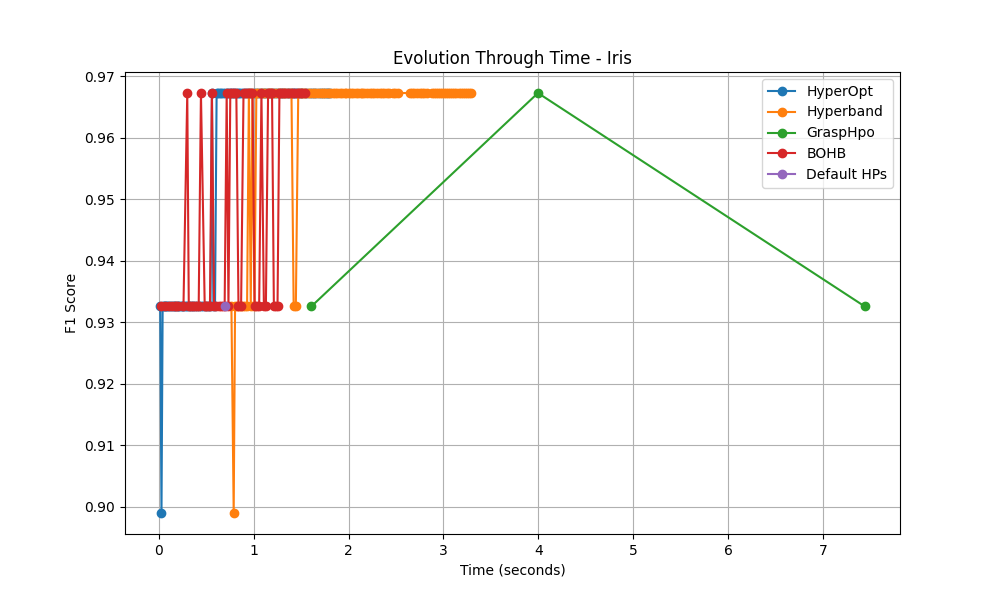
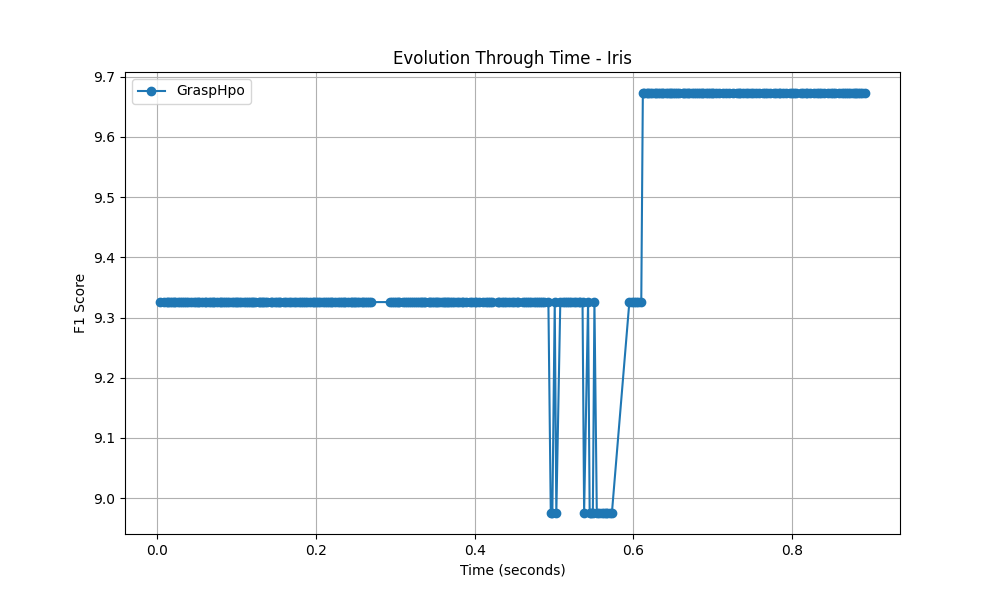
WIP grasp evolution per xgboost round

diff --git a/src/hpo/grasp/grasp_hpo.py b/src/hpo/grasp/grasp_hpo.py
@@ -24,16 +24,27 @@ class GraspHpo(HPOStrategy):
     def hyperparameter_optimization(self, x_train, x_test, y_train, y_test, search_space):
         start_time = time.time()
         best_intermediate_combinations, f1_scores_evolution, time_evolution = self.phase1.building_phase(x_train, x_test, y_train, y_test, search_space, start_time)
-        local_search_start_time = time.time()
-        local_best_sol, local_best_score, f1_scores_evolution2, time_evolution2 = self.phase2.local_search(best_intermediate_combinations, x_train, x_test, y_train, y_test, search_space, start_time, local_search_start_time)
-        f1_scores_evolution.extend(f1_scores_evolution2)
-        time_evolution.extend(time_evolution2)
+        # local_search_start_time = time.time()
+        # local_best_sol, local_best_score, f1_scores_evolution2, time_evolution2 = self.phase2.local_search(best_intermediate_combinations, x_train, x_test, y_train, y_test, search_space, start_time, local_search_start_time)
+        # f1_scores_evolution.extend(f1_scores_evolution2)
+        # time_evolution.extend(time_evolution2)
 
-        return local_best_sol, local_best_score, (f1_scores_evolution, time_evolution)
+        return best_intermediate_combinations.get(), f1_scores_evolution[0], (f1_scores_evolution, time_evolution)
 
     @staticmethod
-    def evaluate_solution(params, x_train, x_test, y_train, y_test):
-        def evaluate_f1_score(predt: np.ndarray, dtrain: xgboost.DMatrix) -> tuple[str, float]:
+    def evaluate_solution(params, x_train, x_test, y_train, y_test, start_time):
+        # Define the custom evaluation function inside evaluate_solution to record time of each iteration
+        class TimeEvaluationCallback(xgboost.callback.TrainingCallback):
+            def __init__(self):
+                super().__init__()
+                self.times = []
+
+            def after_iteration(self, model, epoch, evals_log):
+                current_time = time.time()
+                self.times.append(current_time - start_time)
+                return False  # Return False to continue training
+
+        def evaluate_f1_score(predt: np.ndarray, dtrain: xgboost.DMatrix) -> np.ndarray:
             """Compute the f1 score"""
             y = dtrain.get_label()
             if len(np.unique(y)) == 2:
@@ -53,6 +64,9 @@ class GraspHpo(HPOStrategy):
         test_set = xgboost.DMatrix(data=x_test, label=y_test)
 
         evals_result = {}
+
+        time_callback = TimeEvaluationCallback()
+
         xgboost.train(
             params,
             train_set,
@@ -60,7 +74,11 @@ class GraspHpo(HPOStrategy):
             verbose_eval=False,
             custom_metric=evaluate_f1_score,
             num_boost_round=100,
-            evals_result=evals_result
+            evals_result=evals_result,
+            callbacks=[time_callback]
         )
+        round_times = time_callback.times
 
-        return evals_result['eval']['f1_score'][-1]
+        f1_scores_per_round = evals_result['eval']['f1_score']
+
+        return [score * 10 for score in f1_scores_per_round], round_times

diff --git a/src/hpo/grasp/phase1grasp.py b/src/hpo/grasp/phase1grasp.py
@@ -37,10 +37,10 @@ class Construction:
         # print('\nStarting building phase...')
         best_intermediate_combinations = PriorityQueue()
 
-        f1_score = self.evaluate(DEFAULT_HYPERPARAMETERS, x_train, x_test, y_train, y_test)
-        best_intermediate_combinations.put((f1_score, uuid.uuid4(), DEFAULT_HYPERPARAMETERS))
-        f1_scores_evolution = []
-        time_evolution = []
+        f1_scores, times = self.evaluate(DEFAULT_HYPERPARAMETERS, x_train, x_test, y_train, y_test, start_time)
+        best_intermediate_combinations.put((f1_scores[-1], uuid.uuid4(), DEFAULT_HYPERPARAMETERS))
+        f1_scores_evolution = f1_scores
+        time_evolution = times
         for i in range(self.max_iter):
             if time.time() - start_time > self.timelimit:
                 break
@@ -59,13 +59,12 @@ class Construction:
                 "gamma":  self.get_random_hyperparameter_value('gamma', search_space['gamma'])
             }
 
-            f1_score = self.evaluate(selected_hyperparameters, x_train, x_test, y_train, y_test)
+            f1_scores, times = self.evaluate(selected_hyperparameters, x_train, x_test, y_train, y_test, start_time)
 
-            if f1_scores_evolution.__len__() == 0 or f1_score > f1_scores_evolution[-1]:
-                f1_scores_evolution.append(f1_score)
-                time_evolution.append(time.time() - start_time)
+            f1_scores_evolution.extend(f1_scores)
+            time_evolution.extend(times)
 
-            best_intermediate_combinations.put((f1_score, uuid.uuid4(), selected_hyperparameters))
+            best_intermediate_combinations.put((f1_scores[-1], uuid.uuid4(), selected_hyperparameters))
             if best_intermediate_combinations.qsize() > self.intermediate_results_size:
                 best_intermediate_combinations.get()
 

diff --git a/src/hpo/grasp/phase2grasp.py b/src/hpo/grasp/phase2grasp.py
@@ -65,7 +65,7 @@ class LocalSearch:
     def hill_climb(self, cur_sol: dict, x_train, x_test, y_train, y_test, phase_start_time):
 
         best_sol = cur_sol
-        best_score = self.evaluate(cur_sol, x_train, x_test, y_train, y_test)
+        best_score = self.evaluate(cur_sol, x_train, x_test, y_train, y_test, phase_start_time)
 
         for _ in range(self.max_iter):
 
@@ -73,7 +73,7 @@ class LocalSearch:
                 break
 
             neighbor_sol = self.generate_neighbor(cur_sol)
-            neighbor_score = self.evaluate(neighbor_sol, x_train, x_test, y_train, y_test)
+            neighbor_score = self.evaluate(neighbor_sol, x_train, x_test, y_train, y_test, phase_start_time)
 
             if neighbor_score > best_score:
                 best_sol = neighbor_sol

diff --git a/src/main.py b/src/main.py
@@ -40,8 +40,8 @@ class Main:
         dataset_names = ['Breast Cancer', 'Digits', 'Iris', 'Wine', 'Ereno']
         # dataset_names = ['Breast Cancer', 'Digits', 'Iris', 'Wine']
         # dataset_names = ['Wine']
-        strategies = ['HyperOpt', 'Hyperband', 'GraspHpo', 'BOHB', 'Default HPs']
-        # strategies = ['GraspHpo']
+        # strategies = ['HyperOpt', 'Hyperband', 'GraspHpo', 'BOHB', 'Default HPs']
+        strategies = ['GraspHpo']
         # strategies = ['BOHB']
         # strategies = ['Default HPs']
 
